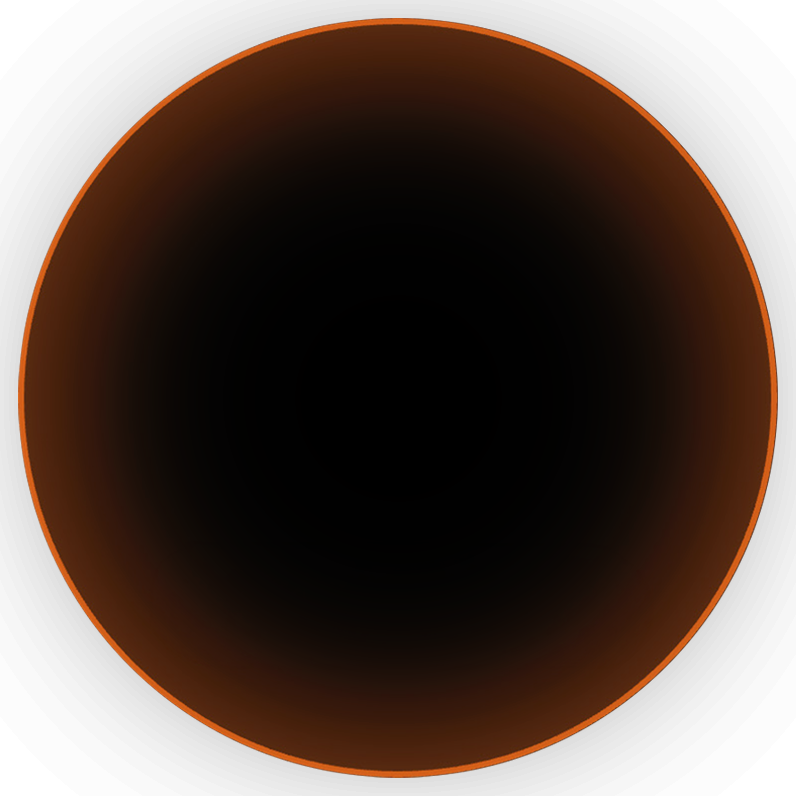
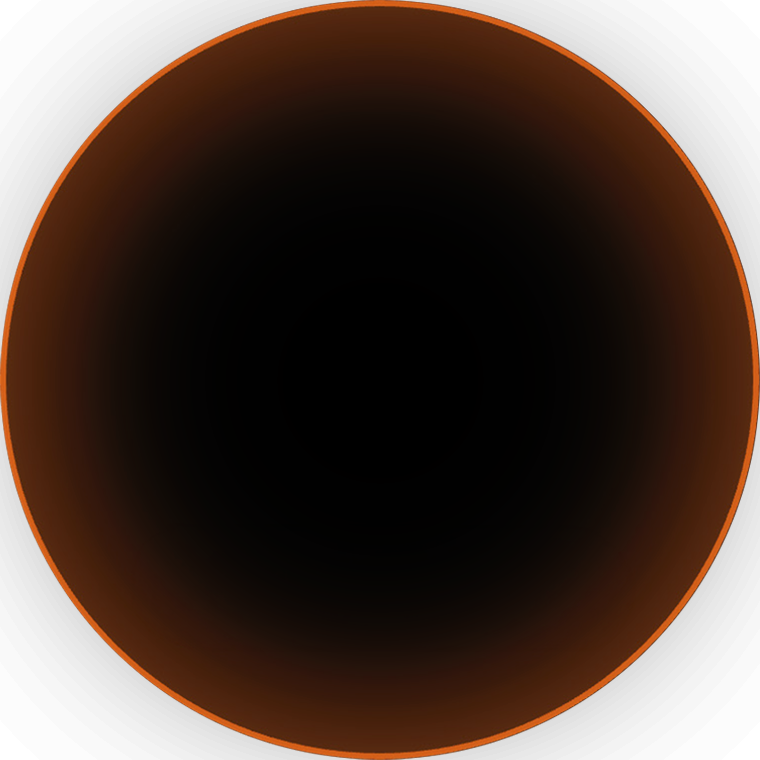
fix(quick-mode): keep welding ring bright on laser dashboard
Always render the welding arc ring at full brightness with radial gradient
tracks and refresh the pressure monitor background asset.

Changed region(s): [[0.0, 0.0, 1.0, 1.0]]

diff --git a/app/lws_hmi/lib/features/process_mode/presentation/quick_mode_laser_dashboard.dart b/app/lws_hmi/lib/features/process_mode/presentation/quick_mode_laser_dashboard.dart
@@ -8,6 +8,7 @@ import 'package:lws_hmi/features/process_library/domain/process_library_models.d
 import 'package:lws_hmi/features/process_mode/domain/process_mode_assets.dart';
 import 'package:lws_hmi/features/process_mode/domain/process_mode_tokens.dart';
 import 'package:lws_hmi/features/process_mode/presentation/live_machine_status_dialog.dart';
+import 'package:lws_hmi/features/process_mode/presentation/process_mode_outline_button.dart';
 import 'package:lws_hmi/l10n/app_localizations.dart';
 import 'package:lws_hmi/ui/hmi/hmi_button.dart';
 
@@ -117,7 +118,11 @@ final class _QuickModeLaserDashboardState extends State<QuickModeLaserDashboard>
     final palette = _LaserDashboardPalette.forType(widget.processType);
     final metrics =
         _LaserDashboardMetrics.fromViewport(MediaQuery.sizeOf(context));
-    final ringAlpha = widget.laserEnable ? 1.0 : 0.5;
+    final welding = widget.processType == ProcessType.continuousWelding ||
+        widget.processType == ProcessType.spotWelding;
+    // Welding uses the same always-bright orange as an enabled Quick side
+    // button. The legacy 50% laser-disabled dim made this outer rail muddy.
+    final ringAlpha = welding || widget.laserEnable ? 1.0 : 0.5;
     final pressureText = widget.gasPressureKpa.round().toString();
 
     return SizedBox(
@@ -308,8 +313,8 @@ final class _LaserDashboardPalette {
     required this.pressureBg,
   });
 
-  final Color outerTrack;
-  final Color innerTrack;
+  final List<Color> outerTrack;
+  final List<Color> innerTrack;
   final Color lineProgress;
   final List<Color> outerProgress;
   final List<Color> innerProgress;
@@ -318,8 +323,8 @@ final class _LaserDashboardPalette {
   static _LaserDashboardPalette forType(ProcessType type) {
     if (type.isCleaning) {
       return const _LaserDashboardPalette(
-        outerTrack: Color(0xFF37F3D2),
-        innerTrack: Color(0xFF19C0A4),
+        outerTrack: [Color(0xFF37F3D2)],
+        innerTrack: [Color(0xFF19C0A4)],
         lineProgress: Color(0xFF19C7AA),
         outerProgress: [
           Color(0xFF37EFD3),
@@ -338,8 +343,8 @@ final class _LaserDashboardPalette {
     }
     if (type == ProcessType.handCutting || type == ProcessType.cncCutting) {
       return const _LaserDashboardPalette(
-        outerTrack: Color(0xFF0151F4),
-        innerTrack: Color(0xFF1C35BD),
+        outerTrack: [Color(0xFF0151F4)],
+        innerTrack: [Color(0xFF1C35BD)],
         lineProgress: Color(0xFF1E38C9),
         outerProgress: [
           Color(0xFF5552FF),
@@ -357,20 +362,21 @@ final class _LaserDashboardPalette {
       );
     }
     return const _LaserDashboardPalette(
-      outerTrack: Color(0xFFF46E01),
-      innerTrack: Color(0xFFB35517),
-      lineProgress: Color(0xFFB65718),
+      // The outer rail starts with a brighter orange at the center-facing
+      // edge, then returns to the enabled Quick side-button orange outside.
+      outerTrack: [
+        Color(0xFFFFA23A),
+        ProcessModeOutlineChrome.actionOrange,
+      ],
+      innerTrack: [Color(0xFF20100A), Color(0xFFA0310F)],
+      lineProgress: ProcessModeOutlineChrome.actionOrange,
       outerProgress: [
-        Color(0xFFB75717),
-        Color(0xFFFFB016),
-        Color(0xFFFFB016),
-        Color(0xFFFFBD18),
+        Color(0xFFFFA23A),
+        ProcessModeOutlineChrome.actionOrange,
       ],
       innerProgress: [
-        Color(0xFF42260D),
-        Color(0xFFDD7315),
-        Color(0xFFDD7315),
-        Color(0xFFFFBD16),
+        Color(0xFF20100A),
+        Color(0xFFA0310F),
       ],
       pressureBg: ProcessModeAssets.pressureMonitoringOrange,
     );
@@ -470,7 +476,7 @@ final class _LaserProgressRingsPainter extends CustomPainter {
       viewSize: metrics.outerViewSize,
       circleStrokeWidth: metrics.outerCircleStroke,
       progressStrokeWidth: metrics.outerProgressStroke,
-      trackColor: palette.outerTrack,
+      trackColors: palette.outerTrack,
       progressColors: palette.outerProgress,
       start: start,
       fullSweep: fullSweep,
@@ -485,7 +491,7 @@ final class _LaserProgressRingsPainter extends CustomPainter {
       viewSize: metrics.innerViewSize,
       circleStrokeWidth: metrics.innerCircleStroke,
       progressStrokeWidth: metrics.innerProgressStroke,
-      trackColor: palette.innerTrack,
+      trackColors: palette.innerTrack,
       progressColors: palette.innerProgress,
       start: start,
       fullSweep: fullSweep,
@@ -504,7 +510,7 @@ final class _LaserProgressRingsPainter extends CustomPainter {
       // `laser_circular_seek_line` declares `circle_color=transparent` in
       // lws-ui: this layer is only the 6dp progress highlight, never a dark
       // inactive rail outside the static white trim.
-      trackColor: Colors.transparent,
+      trackColors: const [Colors.transparent],
       // Product: thin bright edge at 75% opacity.
       progressColors: [
         palette.lineProgress.withOpacity(0.75),
@@ -524,7 +530,7 @@ final class _LaserProgressRingsPainter extends CustomPainter {
     required double viewSize,
     required double circleStrokeWidth,
     required double progressStrokeWidth,
-    required Color trackColor,
+    required List<Color> trackColors,
     required List<Color> progressColors,
     required double start,
     required double fullSweep,
@@ -535,12 +541,23 @@ final class _LaserProgressRingsPainter extends CustomPainter {
     final pathRadius = radius ?? viewSize / 2 - circleStrokeWidth;
     final rect = Rect.fromCircle(center: center, radius: pathRadius);
 
-    if (trackColor.alpha > 0) {
+    if (trackColors.any((color) => color.alpha > 0)) {
       final track = Paint()
         ..style = PaintingStyle.stroke
         ..strokeWidth = circleStrokeWidth
-        ..strokeCap = StrokeCap.butt
-        ..color = trackColor;
+        ..strokeCap = StrokeCap.butt;
+      if (trackColors.length == 1) {
+        track.color = trackColors.first;
+      } else {
+        track.shader = RadialGradient(
+          colors: trackColors,
+          stops: _ringGradientStops(
+            viewSize: viewSize,
+            pathRadius: pathRadius,
+            strokeWidth: circleStrokeWidth,
+          ),
+        ).createShader(Rect.fromCircle(center: center, radius: viewSize / 2));
+      }
       canvas.drawArc(rect, start, fullSweep, false, track);
     }
 
@@ -564,7 +581,11 @@ final class _LaserProgressRingsPainter extends CustomPainter {
               0.9,
               1.0,
             ]
-          : null;
+          : _ringGradientStops(
+              viewSize: viewSize,
+              pathRadius: pathRadius,
+              strokeWidth: progressStrokeWidth,
+            );
       progressPaint.shader = RadialGradient(
         colors: progressColors,
         stops: stops,
@@ -572,6 +593,18 @@ final class _LaserProgressRingsPainter extends CustomPainter {
     }
 
     canvas.drawArc(rect, start, progressSweep, false, progressPaint);
+  }
+
+  List<double> _ringGradientStops({
+    required double viewSize,
+    required double pathRadius,
+    required double strokeWidth,
+  }) {
+    final shaderRadius = viewSize / 2;
+    return [
+      ((pathRadius - strokeWidth / 2) / shaderRadius).clamp(0.0, 1.0),
+      ((pathRadius + strokeWidth / 2) / shaderRadius).clamp(0.0, 1.0),
+    ];
   }
 
   @override
